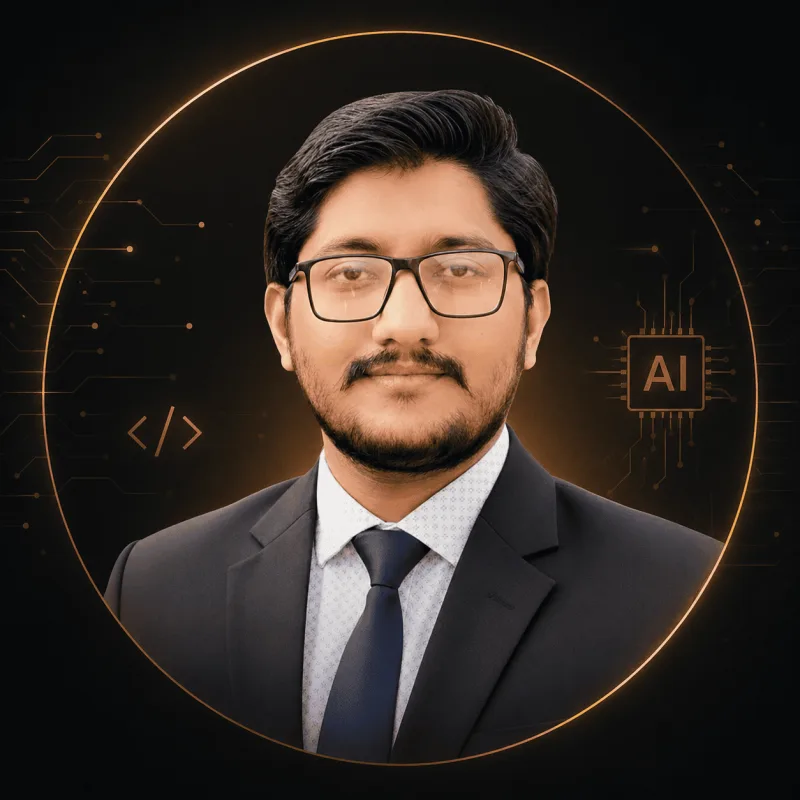
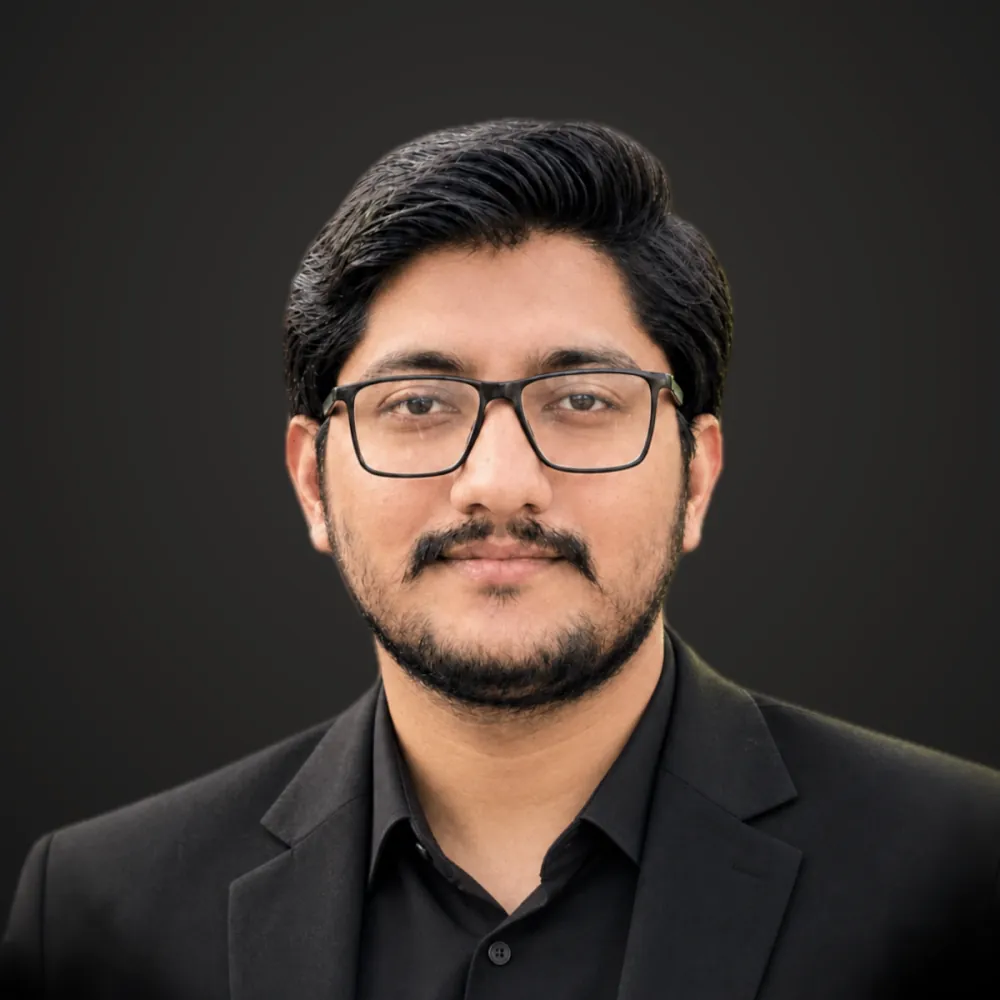
feat: new founder photo, and reframe both team portraits
Sameem's photo is replaced everywhere it appears: the hero, the Team card,
the link-preview image and the Person schema. Both portraits are now cut out
and set on the same graphite backdrop, with the same eye line, so the two
Team cards match.

The Team cards go from 3:2 to square. A 3:2 crop of a head-and-shoulders
photo could only show a face from hairline to chin, which is what made
Usman's card look like a zoomed passport photo. The grey filter is gone too.

The share image is now profile.jpg (195 KB) instead of a PNG, since a photo
saved as PNG runs over 1 MB, which link scrapers handle badly.

diff --git a/src/components/Team.jsx b/src/components/Team.jsx
@@ -1,6 +1,6 @@
 import { motion } from "framer-motion";
 import { team, links } from "../constants";
-import { Section, Eyebrow, Reveal, MaskLine, Icon, PrimaryButton, GhostButton, SmartImage, cn } from "./shared";
+import { Section, Eyebrow, Reveal, MaskLine, Icon, PrimaryButton, GhostButton, SmartImage } from "./shared";
 
 const TeamCard = ({ m, i }) => (
   <motion.article
@@ -11,14 +11,15 @@ const TeamCard = ({ m, i }) => (
     data-cursor="card"
     className="panel panel-hover group relative flex flex-col overflow-hidden"
   >
-    <div className="relative aspect-[3/2] w-full overflow-hidden">
+    {/* Square, because the portraits are head-and-shoulders: a 3:2 crop of
+        them can only show a face from hairline to chin. Both photos are
+        pre-framed on the same backdrop with the same eye line, so no
+        per-person object-position is needed. */}
+    <div className="relative aspect-square w-full overflow-hidden">
       <SmartImage
         src={m.image}
         alt={`${m.name}, ${m.role} at DevoraX`}
-        className={cn(
-          "h-full w-full object-cover grayscale-[0.35] transition-all duration-700 group-hover:scale-[1.04] group-hover:grayscale-0",
-          m.imgPos
-        )}
+        className="h-full w-full object-cover transition-transform duration-700 group-hover:scale-[1.04]"
       />
       <div
         aria-hidden="true"

diff --git a/index.html b/index.html
@@ -33,10 +33,10 @@
     <meta property="og:title" content="Sameem Amjad — Founder &amp; Lead Engineer · DevoraX" data-seo="prop:og:title" />
     <meta property="og:description" content="Sameem Amjad — Founder &amp; Lead Engineer at DevoraX. I lead teams that ship production-grade web, mobile and AI products that scale to millions of users." data-seo="prop:og:description" />
     <meta property="og:url" content="https://sameemamjad.com/" data-seo="prop:og:url" />
-    <meta property="og:image" content="https://sameemamjad.com/myimage/profile.png" data-seo="prop:og:image" />
+    <meta property="og:image" content="https://sameemamjad.com/myimage/profile.jpg" data-seo="prop:og:image" />
     <meta property="og:locale" content="en_US" data-seo="prop:og:locale" />
     <meta name="twitter:card" content="summary_large_image" data-seo="name:twitter:card" />
-    <meta name="twitter:image" content="https://sameemamjad.com/myimage/profile.png" data-seo="name:twitter:image" />
+    <meta name="twitter:image" content="https://sameemamjad.com/myimage/profile.jpg" data-seo="name:twitter:image" />
     <!--seo:end-->
 
     <!-- Fonts load here, not via @import in index.css. An @import is only

diff --git a/src/constants/index.js b/src/constants/index.js
@@ -224,7 +224,6 @@ export const team = [
     role: "Founder & Lead Engineer",
     title: "Full-Stack Engineer · Web · Mobile · AI",
     image: "/myimage/profile.webp",
-    imgPos: "object-center",
     bio: "I lead teams that turn ideas into products real people use every day — from MVPs to platforms serving millions. Clean architecture, honest communication, and software that solves real business problems.",
     tags: ["Next.js", "React Native", "Node.js", "AWS", "AI"],
   },
@@ -234,7 +233,6 @@ export const team = [
     role: "Chief Technical Officer",
     title: "Full-Stack AI Architect · Web · Mobile · 35-Day Free Maintenance",
     image: "/myimage/usman_cto.webp",
-    imgPos: "object-top",
     bio: "Expert Full-Stack AI Architect with 5+ years building scalable Generative-AI systems, custom web apps and SaaS platforms. I turn slow, outdated systems into fast, scalable, user-friendly products — architecting cross-platform mobile (React Native, Flutter) and high-concurrency web on Kubernetes & AWS for 99.9% uptime.",
     tags: ["Generative AI", "React Native", "Flutter", "Kubernetes", "AWS", "SaaS"],
   },

diff --git a/src/components/Hero.jsx b/src/components/Hero.jsx
@@ -185,7 +185,7 @@ const Hero = () => {
           style={{ y: portraitY }}
           className="relative mx-auto w-full max-w-[19rem] sm:max-w-[22rem] lg:max-w-[24rem]"
         >
-          {/* ember bloom behind the frame — picks up the warm circuitry in the
+          {/* ember bloom behind the frame — picks up the warm skin tones in the
               photo so the portrait sits in the palette rather than on top of it */}
           <div
             aria-hidden="true"
@@ -206,8 +206,8 @@ const Hero = () => {
             <img
               src="/myimage/profile.webp"
               alt={`${profile.name}, ${profile.role} at ${profile.company}`}
-              width={1254}
-              height={1254}
+              width={1000}
+              height={1000}
               fetchpriority="high"
               decoding="async"
               className="h-full w-full scale-[1.03] object-cover object-center"

diff --git a/src/constants/seo.js b/src/constants/seo.js
@@ -21,7 +21,7 @@ import { sized } from "../utils/img";
    redirects, which Google tolerates but should not have to. */
 export const ORIGIN = "https://sameemamjad.com";
 export const SITE_NAME = "Sameem Amjad";
-export const DEFAULT_OG_IMAGE = `${ORIGIN}/myimage/profile.png`;
+export const DEFAULT_OG_IMAGE = `${ORIGIN}/myimage/profile.jpg`;
 
 /* Google truncates around 155–160 chars. Clamp on a word boundary so
    descriptions never end mid-word in the SERP. */
